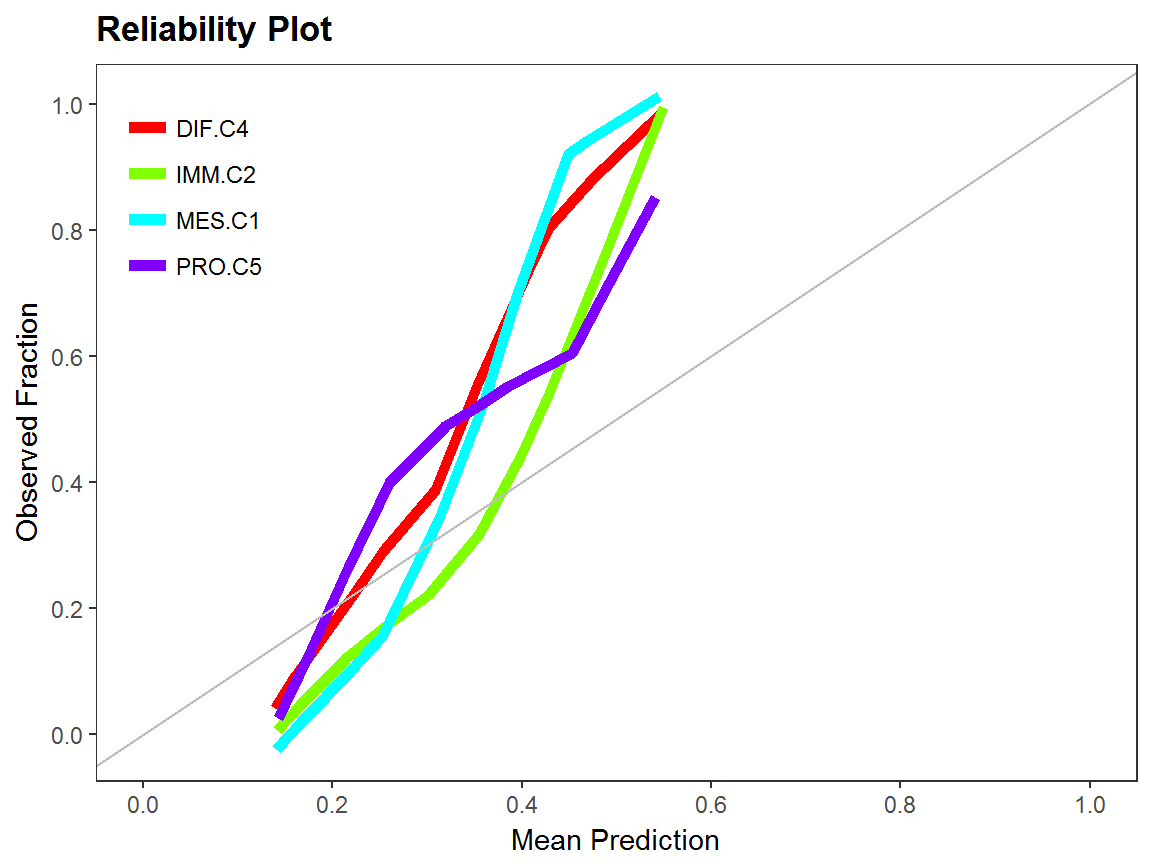
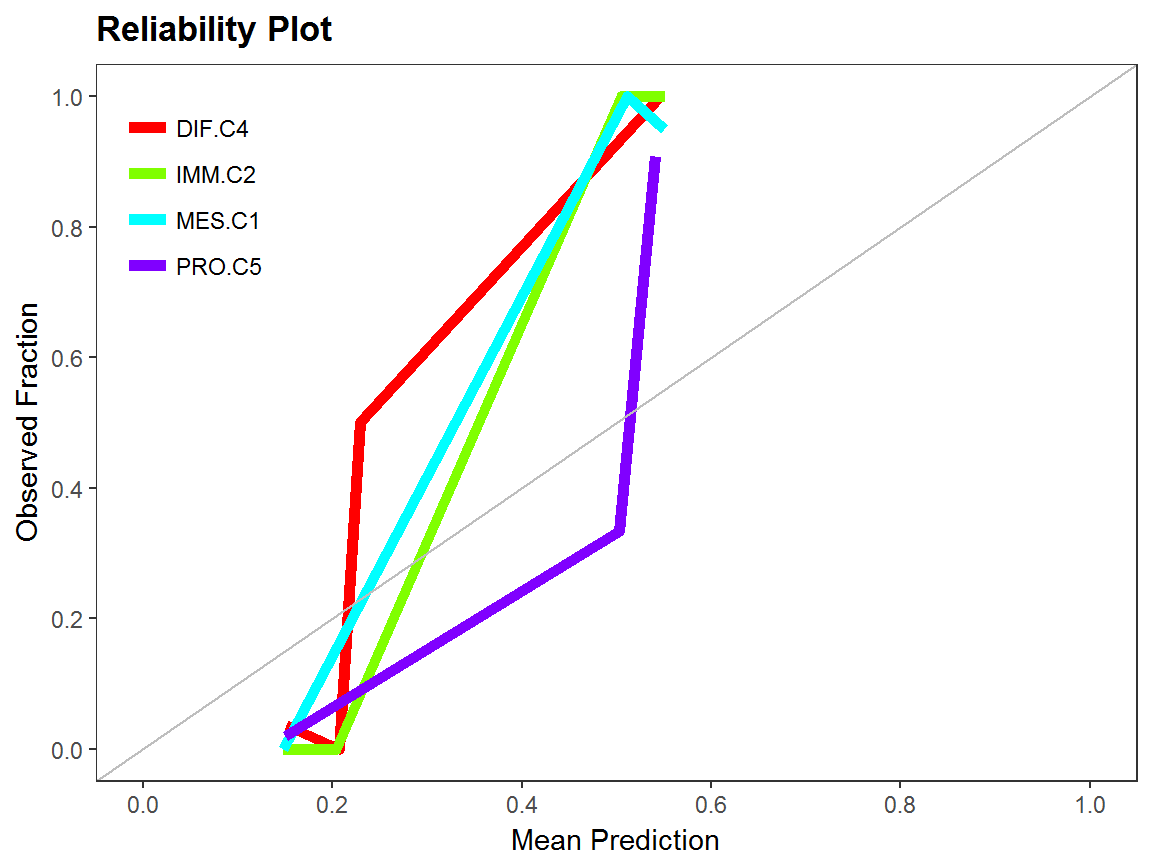
xgboost faster, update pkgdown site

diff --git a/docs/articles/ensemble_classification.html b/docs/articles/ensemble_classification.html
@@ -58,7 +58,7 @@
 </h1>
                         <h4 class="author">Derek Chiu</h4>
             
-            <h4 class="date">2017-05-11</h4>
+            <h4 class="date">2017-05-14</h4>
           </div>
 
     
@@ -223,16 +223,24 @@ sl_result &lt;-<span class="st"> </span><span class="kw"><a href="../reference/s
 <span class="co">#&gt;   ..$ : Factor w/ 4 levels "DIF.C4","IMM.C2",..: 1 1 2 3 4 1 4 2 1 2 ...</span>
 <span class="co">#&gt;   .. ..- attr(*, "prob")= num [1:189, 1:4] 1.00 1.00 2.11e-307 2.43e-69 1.65e-99 ...</span>
 <span class="co">#&gt;   .. .. ..- attr(*, "dimnames")=List of 2</span>
+<span class="co">#&gt;   .. ..- attr(*, "class.thres")= Factor w/ 4 levels "DIF.C4","IMM.C2",..: 1 1 2 3 4 1 4 2 1 2 ...</span>
+<span class="co">#&gt;   .. ..- attr(*, "class.prop")= num 1</span>
 <span class="co">#&gt;   ..$ : Factor w/ 4 levels "DIF.C4","IMM.C2",..: 2 3 3 1 1 1 2 3 1 2 ...</span>
 <span class="co">#&gt;   .. ..- attr(*, "prob")= num [1:170, 1:4] 0.00 1.10e-310 7.59e-85 1.00 1.00 ...</span>
 <span class="co">#&gt;   .. .. ..- attr(*, "dimnames")=List of 2</span>
+<span class="co">#&gt;   .. ..- attr(*, "class.thres")= Factor w/ 4 levels "DIF.C4","IMM.C2",..: 2 3 3 1 1 1 2 3 1 2 ...</span>
+<span class="co">#&gt;   .. ..- attr(*, "class.prop")= num 1</span>
 <span class="co">#&gt;  $ knn:List of 2</span>
 <span class="co">#&gt;   ..$ : Factor w/ 4 levels "DIF.C4","IMM.C2",..: 4 1 3 3 3 2 4 2 4 2 ...</span>
 <span class="co">#&gt;   .. ..- attr(*, "prob")= num [1:189, 1:4] 0 1 0 0 0 0 0 0 0 0 ...</span>
 <span class="co">#&gt;   .. .. ..- attr(*, "dimnames")=List of 2</span>
+<span class="co">#&gt;   .. ..- attr(*, "class.thres")= Factor w/ 5 levels "DIF.C4","IMM.C2",..: 4 1 3 3 3 2 4 2 4 2 ...</span>
+<span class="co">#&gt;   .. ..- attr(*, "class.prop")= num 0.963</span>
 <span class="co">#&gt;   ..$ : Factor w/ 4 levels "DIF.C4","IMM.C2",..: 3 3 4 4 1 1 2 4 1 2 ...</span>
 <span class="co">#&gt;   .. ..- attr(*, "prob")= num [1:170, 1:4] 0.2 0.2 0 0 1 1 0.4 0 0.6 0.4 ...</span>
 <span class="co">#&gt;   .. .. ..- attr(*, "dimnames")=List of 2</span>
+<span class="co">#&gt;   .. ..- attr(*, "class.thres")= Factor w/ 5 levels "DIF.C4","IMM.C2",..: 3 3 4 4 1 1 2 4 1 2 ...</span>
+<span class="co">#&gt;   .. ..- attr(*, "class.prop")= num 0.988</span>
 <span class="co">#&gt;   [list output truncated]</span></code></pre></div>
 <p>Note that each predicted class has an attribute that shows the class probabilities in a matrix. These matrices are useful to compute evaluation measures and generate discriminating graphs that we detail below.</p>
 </div>
@@ -253,123 +261,123 @@ sl_result &lt;-<span class="st"> </span><span class="kw"><a href="../reference/s
 <tbody>
 <tr class="odd">
 <td>logloss</td>
-<td align="right">5.1825453</td>
-<td align="right">2.5161409</td>
+<td align="right">5.3271092</td>
+<td align="right">2.6219964</td>
 </tr>
 <tr class="even">
 <td>auc</td>
-<td align="right">0.9808265</td>
-<td align="right">0.9872663</td>
+<td align="right">0.9840834</td>
+<td align="right">0.9901929</td>
 </tr>
 <tr class="odd">
 <td>accuracy</td>
-<td align="right">0.8677249</td>
-<td align="right">0.8705882</td>
+<td align="right">0.8938547</td>
+<td align="right">0.9119497</td>
 </tr>
 <tr class="even">
 <td>macro_ppv</td>
-<td align="right">0.8669629</td>
-<td align="right">0.8684233</td>
+<td align="right">0.8939579</td>
+<td align="right">0.9109104</td>
 </tr>
 <tr class="odd">
 <td>macro_sensitivity</td>
-<td align="right">0.8736474</td>
-<td align="right">0.8810989</td>
+<td align="right">0.8953092</td>
+<td align="right">0.9175498</td>
 </tr>
 <tr class="even">
 <td>macro_f1</td>
-<td align="right">0.8689601</td>
-<td align="right">0.8726367</td>
+<td align="right">0.8939720</td>
+<td align="right">0.9122388</td>
 </tr>
 <tr class="odd">
 <td>mcc</td>
-<td align="right">0.8235136</td>
-<td align="right">0.8277881</td>
+<td align="right">0.8580875</td>
+<td align="right">0.8833621</td>
 </tr>
 <tr class="even">
 <td>micro_mcc</td>
-<td align="right">0.8236332</td>
-<td align="right">0.8274510</td>
+<td align="right">0.8584730</td>
+<td align="right">0.8825996</td>
 </tr>
 <tr class="odd">
 <td>ppv.DIF.C4</td>
-<td align="right">0.8545455</td>
-<td align="right">0.8863636</td>
+<td align="right">0.8703704</td>
+<td align="right">0.9487179</td>
 </tr>
 <tr class="even">
 <td>ppv.IMM.C2</td>
-<td align="right">0.8095238</td>
-<td align="right">0.8378378</td>
+<td align="right">0.8461538</td>
+<td align="right">0.8611111</td>
 </tr>
 <tr class="odd">
 <td>ppv.MES.C1</td>
-<td align="right">0.9148936</td>
-<td align="right">0.8536585</td>
+<td align="right">0.9545455</td>
+<td align="right">0.9189189</td>
 </tr>
 <tr class="even">
 <td>ppv.PRO.C5</td>
-<td align="right">0.8888889</td>
-<td align="right">0.8958333</td>
+<td align="right">0.9047619</td>
+<td align="right">0.9148936</td>
 </tr>
 <tr class="odd">
 <td>sensitivity.DIF.C4</td>
-<td align="right">0.8245614</td>
-<td align="right">0.7959184</td>
+<td align="right">0.8867925</td>
+<td align="right">0.8222222</td>
 </tr>
 <tr class="even">
 <td>sensitivity.IMM.C2</td>
-<td align="right">0.9189189</td>
-<td align="right">0.9393939</td>
+<td align="right">0.9166667</td>
+<td align="right">0.9687500</td>
 </tr>
 <tr class="odd">
 <td>sensitivity.MES.C1</td>
-<td align="right">0.9347826</td>
-<td align="right">0.9459459</td>
+<td align="right">0.9333333</td>
+<td align="right">0.9444444</td>
 </tr>
 <tr class="even">
 <td>sensitivity.PRO.C5</td>
-<td align="right">0.8163265</td>
-<td align="right">0.8431373</td>
+<td align="right">0.8444444</td>
+<td align="right">0.9347826</td>
 </tr>
 <tr class="odd">
 <td>f1.DIF.C4</td>
-<td align="right">0.8392857</td>
-<td align="right">0.8387097</td>
+<td align="right">0.8785047</td>
+<td align="right">0.8809524</td>
 </tr>
 <tr class="even">
 <td>f1.IMM.C2</td>
-<td align="right">0.8607595</td>
-<td align="right">0.8857143</td>
+<td align="right">0.8800000</td>
+<td align="right">0.9117647</td>
 </tr>
 <tr class="odd">
 <td>f1.MES.C1</td>
-<td align="right">0.9247312</td>
-<td align="right">0.8974359</td>
+<td align="right">0.9438202</td>
+<td align="right">0.9315068</td>
 </tr>
 <tr class="even">
 <td>f1.PRO.C5</td>
-<td align="right">0.8510638</td>
-<td align="right">0.8686869</td>
+<td align="right">0.8735632</td>
+<td align="right">0.9247312</td>
 </tr>
 <tr class="odd">
 <td>mcc.DIF.C4</td>
-<td align="right">0.7718957</td>
-<td align="right">0.7803576</td>
+<td align="right">0.8267917</td>
+<td align="right">0.8424771</td>
 </tr>
 <tr class="even">
 <td>mcc.IMM.C2</td>
-<td align="right">0.8268016</td>
-<td align="right">0.8584279</td>
+<td align="right">0.8493493</td>
+<td align="right">0.8903614</td>
 </tr>
 <tr class="odd">
 <td>mcc.MES.C1</td>
-<td align="right">0.9002651</td>
-<td align="right">0.8689289</td>
+<td align="right">0.9253394</td>
+<td align="right">0.9112477</td>
 </tr>
 <tr class="even">
 <td>mcc.PRO.C5</td>
-<td align="right">0.8031745</td>
-<td align="right">0.8155599</td>
+<td align="right">0.8339015</td>
+<td align="right">0.8937284</td>
 </tr>
 </tbody>
 </table>
@@ -403,7 +411,7 @@ class &lt;-<span class="st"> </span><span class="kw">factor</span>(stringr::<spa
 training.id &lt;-<span class="st"> </span><span class="kw">sample</span>(<span class="kw">seq_along</span>(class), <span class="dt">replace =</span> <span class="ot">TRUE</span>)
 test.id &lt;-<span class="st"> </span><span class="kw">which</span>(!<span class="kw">seq_along</span>(class) %in%<span class="st"> </span>training.id)
 mod &lt;-<span class="st"> </span><span class="kw"><a href="../reference/classification.html">classification</a></span>(hgsc[training.id, ], class[training.id], <span class="st">"xgboost"</span>)
-pred &lt;-<span class="st"> </span><span class="kw"><a href="../reference/prediction.html">prediction</a></span>(mod, hgsc, test.id, class)
+pred &lt;-<span class="st"> </span><span class="kw"><a href="../reference/prediction.html">prediction</a></span>(mod, hgsc, test.id, <span class="dt">class =</span> class)
 evals &lt;-<span class="st"> </span><span class="kw"><a href="../reference/evaluation.html">evaluation</a></span>(class[test.id], pred, <span class="dt">plot =</span> <span class="ot">TRUE</span>)</code></pre></div>
 <p><img src="ensemble_classification_files/figure-html/plots-1.png" width="576"><img src="ensemble_classification_files/figure-html/plots-2.png" width="576"></p>
 </div>

diff --git a/docs/reference/prediction.html b/docs/reference/prediction.html
@@ -84,16 +84,18 @@
 classifiers.</p>
     
 
-    <pre class="usage"><span class='fu'>prediction</span>(<span class='no'>mod</span>, <span class='no'>data</span>, <span class='no'>test.id</span>, <span class='no'>...</span>)
+    <pre class="usage"><span class='fu'>prediction</span>(<span class='no'>mod</span>, <span class='no'>data</span>, <span class='no'>test.id</span>, <span class='kw'>threshold</span> <span class='kw'>=</span> <span class='fl'>0.5</span>, <span class='no'>...</span>)
 
 <span class='co'># S3 method for default</span>
-<span class='fu'>prediction</span>(<span class='no'>mod</span>, <span class='no'>data</span>, <span class='no'>test.id</span>, <span class='no'>...</span>)
+<span class='fu'>prediction</span>(<span class='no'>mod</span>, <span class='no'>data</span>, <span class='no'>test.id</span>, <span class='kw'>threshold</span> <span class='kw'>=</span> <span class='fl'>0.5</span>, <span class='no'>...</span>)
 
 <span class='co'># S3 method for knn</span>
-<span class='fu'>prediction</span>(<span class='no'>mod</span>, <span class='no'>data</span>, <span class='no'>test.id</span>, <span class='no'>train.id</span>, <span class='no'>class</span>, <span class='no'>...</span>)
+<span class='fu'>prediction</span>(<span class='no'>mod</span>, <span class='no'>data</span>, <span class='no'>test.id</span>, <span class='kw'>threshold</span> <span class='kw'>=</span> <span class='fl'>0.5</span>, <span class='no'>train.id</span>, <span class='no'>class</span>,
+  <span class='no'>...</span>)
 
 <span class='co'># S3 method for pamrtrained</span>
-<span class='fu'>prediction</span>(<span class='no'>mod</span>, <span class='no'>data</span>, <span class='no'>test.id</span>, <span class='no'>train.id</span>, <span class='no'>class</span>, <span class='no'>...</span>)</pre>
+<span class='fu'>prediction</span>(<span class='no'>mod</span>, <span class='no'>data</span>, <span class='no'>test.id</span>, <span class='kw'>threshold</span> <span class='kw'>=</span> <span class='fl'>0.5</span>,
+  <span class='no'>train.id</span>, <span class='no'>class</span>, <span class='no'>...</span>)</pre>
     
     <h2 class="hasAnchor" id="arguments"><a class="anchor" href="#arguments"></a> Arguments</h2>
     <table class="ref-arguments">
@@ -109,6 +111,11 @@ classifiers.</p>
     <tr>
       <th>test.id</th>
       <td><p>integer vector of indices for test set</p></td>
+    </tr>
+    <tr>
+      <th>threshold</th>
+      <td><p>a numeric indicating the lowest maximum class probability
+below which a sample will be unclassified.</p></td>
     </tr>
     <tr>
       <th>...</th>

diff --git a/docs/reference/splendid.html b/docs/reference/splendid.html
@@ -85,7 +85,8 @@ replicates and an ensemble classifier is built and evaluated across these
 variants.</p>
     
 
-    <pre class="usage"><span class='fu'>splendid</span>(<span class='no'>data</span>, <span class='no'>class</span>, <span class='no'>n</span>, <span class='kw'>seed</span> <span class='kw'>=</span> <span class='fl'>1</span>, <span class='kw'>algorithms</span> <span class='kw'>=</span> <span class='kw'>NULL</span>, <span class='kw'>rfe</span> <span class='kw'>=</span> <span class='fl'>FALSE</span>, <span class='no'>...</span>)</pre>
+    <pre class="usage"><span class='fu'>splendid</span>(<span class='no'>data</span>, <span class='no'>class</span>, <span class='no'>n</span>, <span class='kw'>seed</span> <span class='kw'>=</span> <span class='fl'>1</span>, <span class='kw'>algorithms</span> <span class='kw'>=</span> <span class='kw'>NULL</span>, <span class='kw'>rfe</span> <span class='kw'>=</span> <span class='fl'>FALSE</span>,
+  <span class='kw'>threshold</span> <span class='kw'>=</span> <span class='fl'>0.5</span>, <span class='no'>...</span>)</pre>
     
     <h2 class="hasAnchor" id="arguments"><a class="anchor" href="#arguments"></a> Arguments</h2>
     <table class="ref-arguments">
@@ -116,6 +117,11 @@ default, in which case uses all implemented algorithms.</p></td>
       <th>rfe</th>
       <td><p>logical; if <code>TRUE</code>, run Recursive Feature Elimination as a
 feature selection method for "lda", "qda", and "rf" algorithms.</p></td>
+    </tr>
+    <tr>
+      <th>threshold</th>
+      <td><p>a numeric indicating the lowest maximum class probability
+below which a sample will be unclassified.</p></td>
     </tr>
     <tr>
       <th>...</th>

diff --git a/docs/reference/splendid_model.html b/docs/reference/splendid_model.html
@@ -84,7 +84,7 @@
     
 
     <pre class="usage"><span class='fu'>splendid_model</span>(<span class='no'>data</span>, <span class='no'>class</span>, <span class='no'>n</span>, <span class='kw'>seed</span> <span class='kw'>=</span> <span class='fl'>1</span>, <span class='kw'>algorithms</span> <span class='kw'>=</span> <span class='kw'>NULL</span>, <span class='kw'>rfe</span> <span class='kw'>=</span> <span class='fl'>FALSE</span>,
-  <span class='no'>...</span>)</pre>
+  <span class='kw'>threshold</span> <span class='kw'>=</span> <span class='fl'>0.5</span>, <span class='no'>...</span>)</pre>
     
     <h2 class="hasAnchor" id="arguments"><a class="anchor" href="#arguments"></a> Arguments</h2>
     <table class="ref-arguments">
@@ -115,6 +115,11 @@ default, in which case uses all implemented algorithms.</p></td>
       <th>rfe</th>
       <td><p>logical; if <code>TRUE</code>, run Recursive Feature Elimination as a
 feature selection method for "lda", "qda", and "rf" algorithms.</p></td>
+    </tr>
+    <tr>
+      <th>threshold</th>
+      <td><p>a numeric indicating the lowest maximum class probability
+below which a sample will be unclassified.</p></td>
     </tr>
     <tr>
       <th>...</th>

diff --git a/docs/index.html b/docs/index.html
@@ -90,12 +90,12 @@ sl_result &lt;-<span class="st"> </span><span class="kw"><a href="reference/sple
 <span class="co">#&gt;  $ evals        :List of 2</span>
 <span class="co">#&gt;   ..$ rf     :'data.frame':  24 obs. of  1 variable:</span>
 <span class="co">#&gt;   ..$ xgboost:'data.frame':  24 obs. of  1 variable:</span>
-<span class="co">#&gt;  $ bests        : Named chr "rf"</span>
+<span class="co">#&gt;  $ bests        : Named chr "xgboost"</span>
 <span class="co">#&gt;   ..- attr(*, "names")= chr "1"</span>
-<span class="co">#&gt;  $ ensemble_algs: chr "rf"</span>
+<span class="co">#&gt;  $ ensemble_algs: chr "xgboost"</span>
 <span class="co">#&gt;  $ ensemble_mods:List of 1</span>
-<span class="co">#&gt;   ..$ :List of 18</span>
-<span class="co">#&gt;   .. ..- attr(*, "class")= chr "randomForest"</span></code></pre></div>
+<span class="co">#&gt;   ..$ :List of 6</span>
+<span class="co">#&gt;   .. ..- attr(*, "class")= chr "xgb.Booster"</span></code></pre></div>
 </div>
 </div>
 </div>

diff --git a/docs/reference/index.html b/docs/reference/index.html
@@ -78,7 +78,7 @@
     <div class="page-header">
       <h1>
         Reference
-        <small>version&nbsp;0.0.0.9007</small>
+        <small>version&nbsp;0.0.0.9008</small>
       </h1>
     </div>
 
@@ -133,6 +133,12 @@
             <p><code><a href="splendid_ensemble.html">splendid_ensemble</a></code> </p>
           </td>
           <td><p>Combine classification models into an ensemble</p></td>
+        </tr><tr>
+          <!--  -->
+          <td>
+            <p><code><a href="splendid_graphs.html">discrimination_plot</a></code> <code><a href="splendid_graphs.html">reliability_plot</a></code> </p>
+          </td>
+          <td><p>Discriminating graphs</p></td>
         </tr><tr>
           <!--  -->
           <td>

diff --git a/docs/articles/index.html b/docs/articles/index.html
@@ -74,7 +74,7 @@
       </header>
 
       <div class="page-header">
-  <h1>Articles <small>version&nbsp;0.0.0.9007</small></h1>
+  <h1>Articles <small>version&nbsp;0.0.0.9008</small></h1>
 </div>
 
 <div class="row">

diff --git a/README.md b/README.md
@@ -37,10 +37,10 @@ str(sl_result, max.level = 2)
 #>  $ evals        :List of 2
 #>   ..$ rf     :'data.frame':  24 obs. of  1 variable:
 #>   ..$ xgboost:'data.frame':  24 obs. of  1 variable:
-#>  $ bests        : Named chr "rf"
+#>  $ bests        : Named chr "xgboost"
 #>   ..- attr(*, "names")= chr "1"
-#>  $ ensemble_algs: chr "rf"
+#>  $ ensemble_algs: chr "xgboost"
 #>  $ ensemble_mods:List of 1
-#>   ..$ :List of 18
-#>   .. ..- attr(*, "class")= chr "randomForest"
+#>   ..$ :List of 6
+#>   .. ..- attr(*, "class")= chr "xgb.Booster"
 ```
